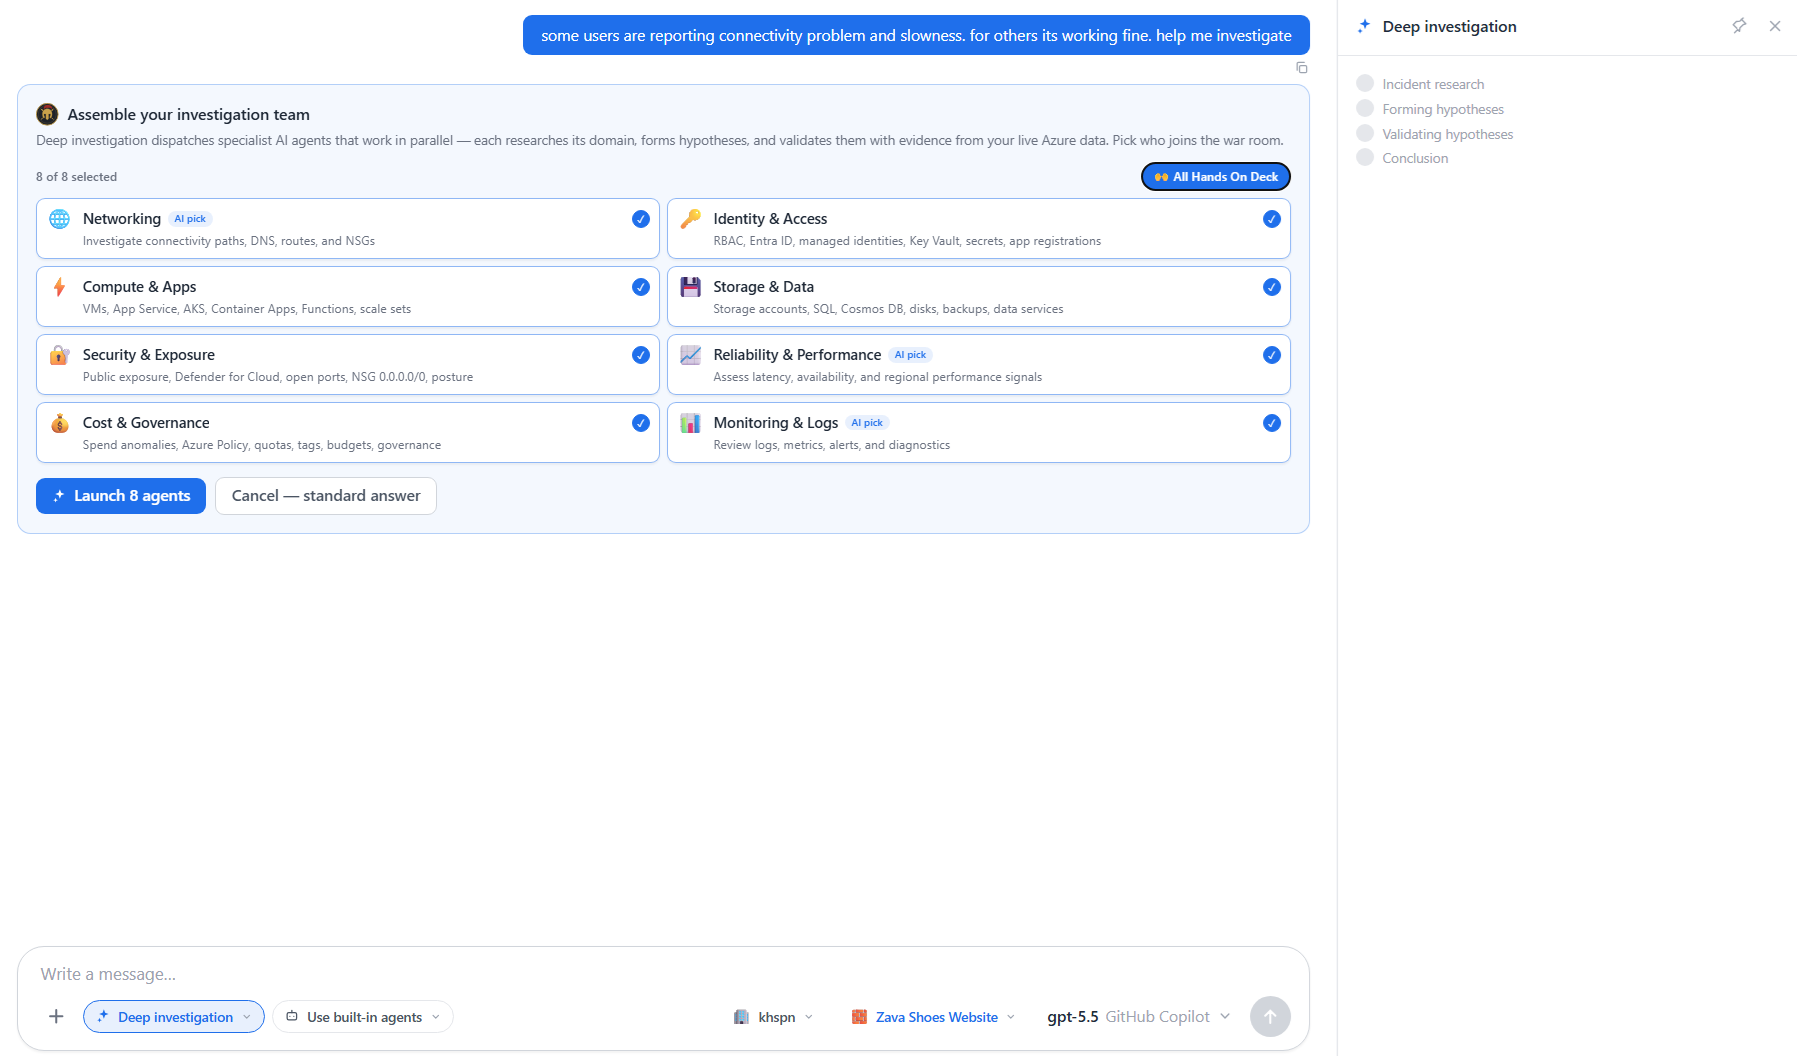
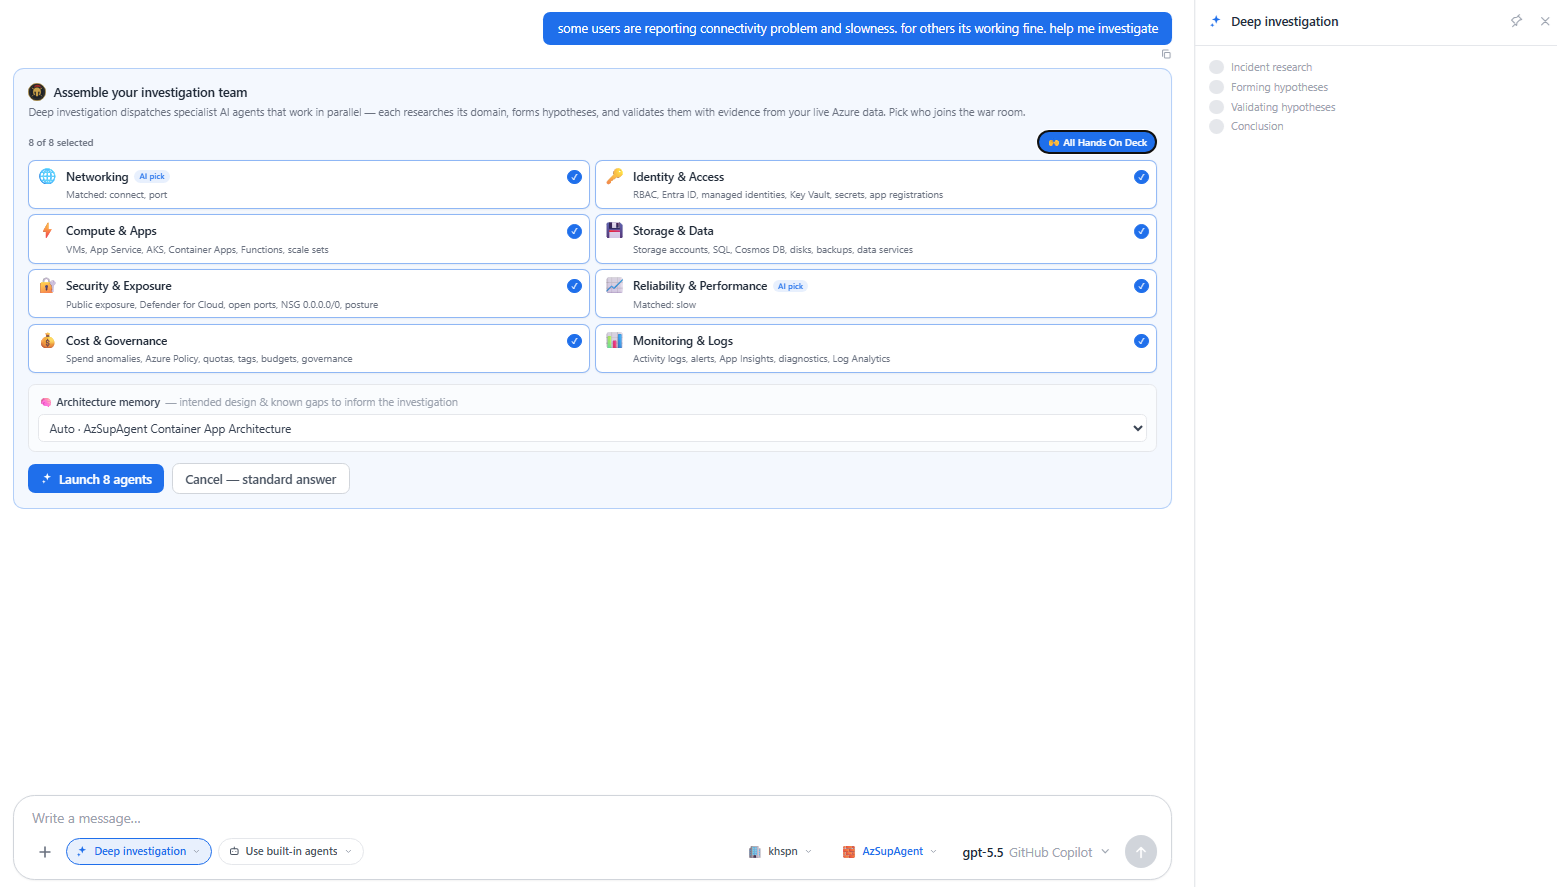
Fix Know-Me generation crash: float() on None pct_of_threshold
The Workload Know-Me document page surfaced a red error banner reading
'float() argument must be a string or a real number, not NoneType' when
(re)generating a Know-Me for a workload whose latest Performance Profiler
run had a top bottleneck without a numeric threshold ratio.

ROOT CAUSE: knowme/context.py _evidence_block() built the performance
evidence line with round(float(tb.get('pct_of_threshold', 0))). The perf
run's top_bottleneck dict (perfprofile/runs.py) sets pct_of_threshold to
top.get('pct_of_threshold'), which is None for a bottleneck with no
numeric threshold ratio. dict.get(key, 0) returns the PRESENT None value
(not the 0 default), so float(None) raised TypeError inside the SSE
generation job. The frontend job-reconnect stream (KU4) surfaced it as
the load-time red banner.

FIX: guard pct_of_threshold for None before float() and omit the '% of
threshold' clause when it is absent, keeping the bottleneck's resource /
metric / state in the evidence line. Backend-only change.

diff --git a/backend/app/knowme/context.py b/backend/app/knowme/context.py
@@ -305,9 +305,15 @@ def _evidence_block(ev: dict[str, Any]) -> str:
     if p:
         tb = p.get("top_bottleneck") or {}
         sc = f"Performance health {p['score']}/100" if p.get("score") is not None else "Performance profiler"
-        if tb:
+        # pct_of_threshold can be None (a bottleneck without a numeric threshold ratio), so guard
+        # before float() — tb.get(k, 0) still returns None when the key exists with a None value.
+        pct = tb.get("pct_of_threshold")
+        if tb and pct is not None:
             lines.append(f"{sc}; top bottleneck: {tb.get('resource_name','?')} {tb.get('metric_name','')} "
-                         f"at {round(float(tb.get('pct_of_threshold', 0)))}% of threshold ({tb.get('state','')}).")
+                         f"at {round(float(pct))}% of threshold ({tb.get('state','')}).")
+        elif tb:
+            lines.append(f"{sc}; top bottleneck: {tb.get('resource_name','?')} {tb.get('metric_name','')} "
+                         f"({tb.get('state','')}).")
         else:
             lines.append(f"{sc}.")
     idle = ev.get("idle") or []